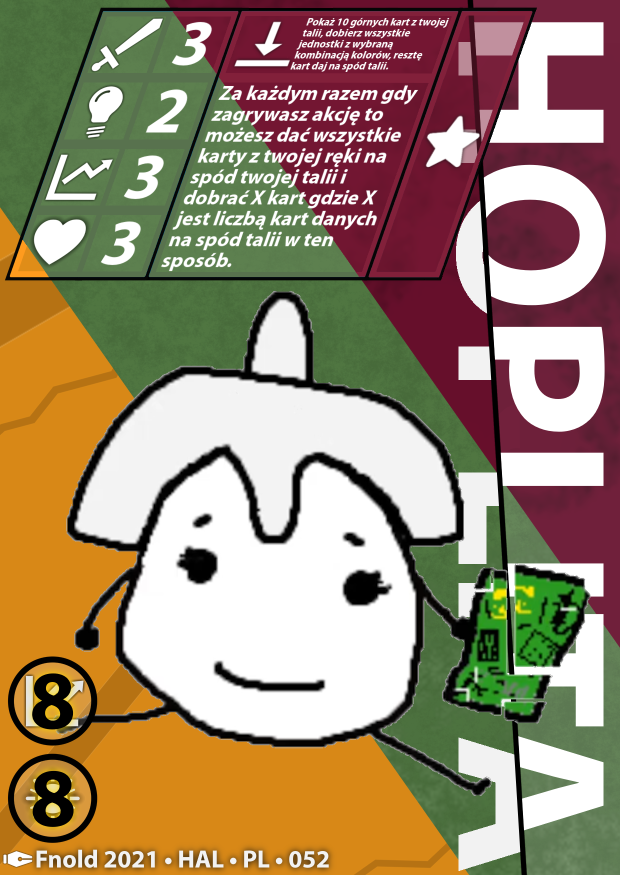
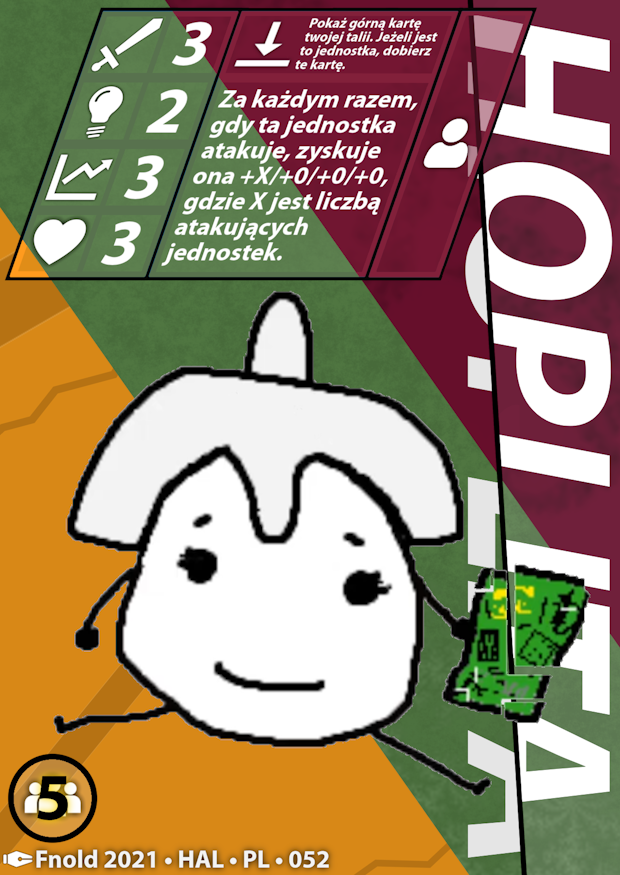
add old "Hoplita" version to database

diff --git a/karty/card-database/jednostki/52.js b/karty/card-database/jednostki/52.js
@@ -1,6 +1,42 @@
 function latest() {
     const card_title = "Hoplita";
     const site_title = card_title;
+    const card_cost = "5J";
+    const card_cost_info = "≥5 Wystawione Jednostki";
+    const card_type = "Jednostka - Operator bez Gwiazdki";
+    const card_subtype = `
+        <p>
+        Człowiek
+        </p>`;
+    const card_description = `
+        <p>Pokaż górną kartę twojej talii. Jeżeli jest to jednostka, dobierz te kartę.</p>
+        <br>
+        <p>Za każdym razem, gdy ta jednostka atakuje, zyskuje ona +X/+0/+0/+0, gdzie X jest liczbą atakujących jednostek.</p>`;
+    const card_stats = `
+        <p>
+        3/2/3/3
+        </p>`;
+    const card_author = `
+        <i>
+        Ilustracja: Fnold 2021
+        </i>`;
+    document.getElementById("card_title").innerHTML = card_title;
+    document.getElementById("site_title").innerHTML = site_title;
+    document.getElementById("card_cost").innerHTML = card_cost;
+    document.getElementById("card_cost_info").title = card_cost_info;
+    document.getElementById("card_type").innerHTML = card_type;
+    document.getElementById("card_subtype").innerHTML = card_subtype;
+    document.getElementById("card_description").innerHTML = card_description;
+    document.getElementById("card_stats").innerHTML = card_stats;
+    document.getElementById("card_author").innerHTML = card_author;
+    document.getElementById("card_image").src = "../../assets/cards/latest/jednostki/52.webp";
+    document.getElementById("card_image").alt = card_title;
+    document.getElementById("latest_selector").innerHTML = `&gt;<u>Najnowsza</u>`;
+    document.getElementById("alpha_selector").innerHTML = `<u>Alpha</u>`;
+}
+function alpha() {
+    const card_title = "Hoplita";
+    const site_title = card_title;
     const card_cost = "8M 8P";
     const card_cost_info = "8 Many i 8 Popularności";
     const card_type = "Jednostka - Operator z Gwiazdką";
@@ -29,9 +65,10 @@ function latest() {
     document.getElementById("card_description").innerHTML = card_description;
     document.getElementById("card_stats").innerHTML = card_stats;
     document.getElementById("card_author").innerHTML = card_author;
-    document.getElementById("card_image").src = "../../assets/cards/latest/jednostki/52.webp";
+    document.getElementById("card_image").src = "../../assets/cards/alpha/jednostki/52.webp";
     document.getElementById("card_image").alt = card_title;
-    document.getElementById("latest_selector").innerHTML = `&gt;<u>Najnowsza</u>`;
+    document.getElementById("latest_selector").innerHTML = `<u>Najnowsza</u>`;
+    document.getElementById("alpha_selector").innerHTML = `&gt;<u>Alpha</u>`;
 }
 document.addEventListener("DOMContentLoaded", latest);
 

diff --git a/karty/jednostki/52.html b/karty/jednostki/52.html
@@ -107,6 +107,9 @@
                         <p>
                             <a onclick="latest()" id="latest_selector"></a>
                         </p>
+                        <p>
+                            <a onclick="alpha()" id="alpha_selector"></a>
+                        </p>
                     </div>
                     <nav>
                         <a href="51">
